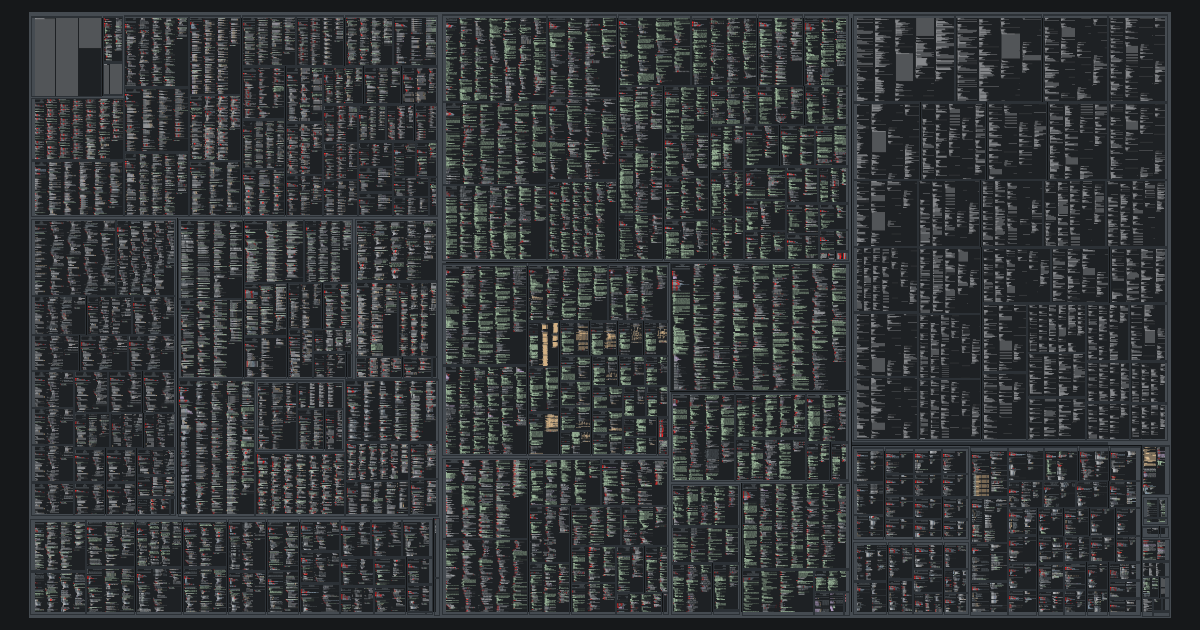
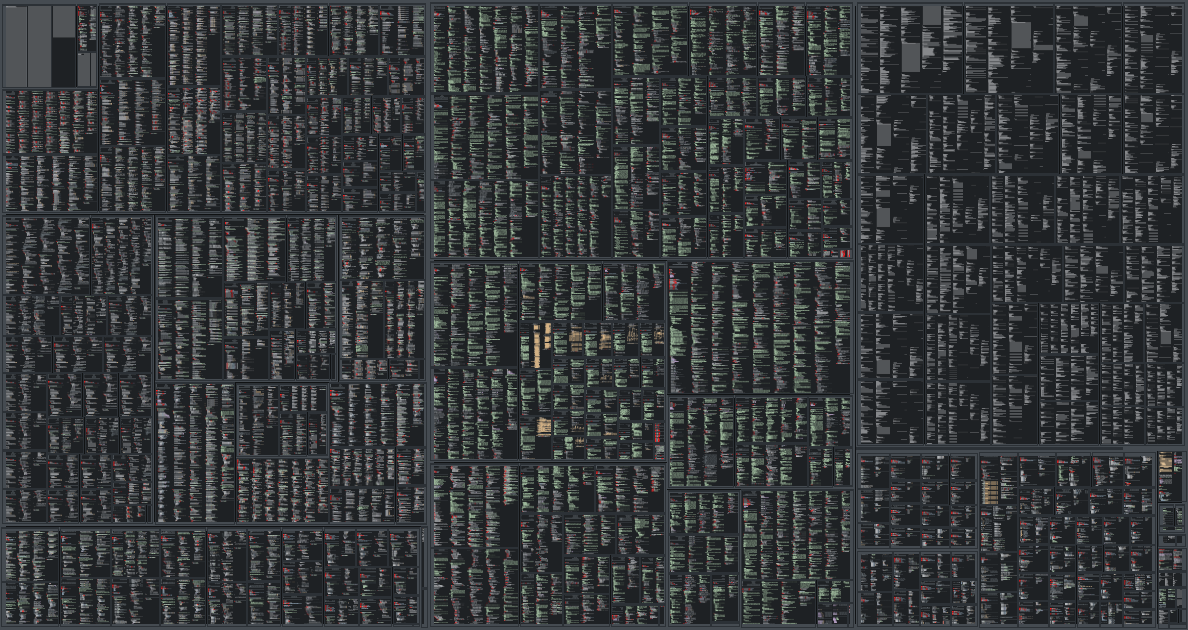
export: no border, the image takes the aspect of what it frames

diff --git a/web/src/lib/canvas/app.ts b/web/src/lib/canvas/app.ts
@@ -103,7 +103,12 @@ export interface ContentResult {
 
 /** What a PNG export asks for. */
 export interface ImageRequest {
-  /** Size of the image in pixels. */
+  /**
+   * Largest image wanted, in pixels. The one produced fits inside this box at
+   * the aspect of what is being framed, so nothing is padded and nothing is
+   * cut: a wide project comes out 3840 by 2021 rather than 3840 by 2160 with
+   * a strip of background at the top and bottom.
+   */
   width: number;
   height: number;
   /** What to frame: what is on screen, or the whole project. */
@@ -892,19 +897,22 @@ export class CanvasApp {
   async renderToBlob(req: ImageRequest): Promise<Blob> {
     if (!this.scene || !this.layout) throw new Error('nothing to render');
     const [maxW, maxH] = this.gl.getParameter(this.gl.MAX_VIEWPORT_DIMS) as Int32Array;
-    const width = Math.max(64, Math.min(req.width, maxW, MAX_IMAGE_EDGE));
-    const height = Math.max(64, Math.min(req.height, maxH, MAX_IMAGE_EDGE));
+    const boxW = Math.max(64, Math.min(req.width, maxW, MAX_IMAGE_EDGE));
+    const boxH = Math.max(64, Math.min(req.height, maxH, MAX_IMAGE_EDGE));
 
-    // The world rect to frame, then widened to the image's aspect, so asking
-    // for 16:9 never cuts anything off what was on screen.
-    const [rx0, ry0, rx1, ry1] = req.region === 'project'
-      ? this.layout.bounds
-      : this.cam.visibleRect();
-    const pad = req.region === 'project' ? 0.02 : 0;
+    // What to frame, exactly: the project's own bounds or what the window
+    // shows. No margin either way, and the image takes the rect's aspect
+    // instead of the rect being widened to the image's, since a fixed 16:9
+    // frame around a project that is not 16:9 is a border on two sides of it.
+    const [rx0, ry0, rx1, ry1] =
+      req.region === 'project' ? this.layout.bounds : this.cam.visibleRect();
     const cx = (rx0 + rx1) / 2;
     const cy = (ry0 + ry1) / 2;
-    const rw = (rx1 - rx0) * (1 + pad * 2);
-    const rh = (ry1 - ry0) * (1 + pad * 2);
+    const rw = rx1 - rx0;
+    const rh = ry1 - ry0;
+    const scale = Math.min(boxW / rw, boxH / rh);
+    const width = Math.max(64, Math.round(rw * scale));
+    const height = Math.max(64, Math.round(rh * scale));
 
     const keep = { x: this.cam.x, y: this.cam.y, zoom: this.cam.zoom };
     cancelAnimationFrame(this.raf);
@@ -919,7 +927,7 @@ export class CanvasApp {
       // the level this size of text actually needs.
       this.cam.dpr = 1;
       this.cam.stop();
-      this.cam.zoom = Math.min(width / rw, height / rh);
+      this.cam.zoom = scale;
       this.cam.x = cx;
       this.cam.y = cy;
 

diff --git a/web/src/lib/image.ts b/web/src/lib/image.ts
@@ -15,8 +15,14 @@ import type { CanvasApp } from '$lib/canvas/app';
 import { project } from '$lib/state/project.svelte';
 import { inTauri, savePng } from '$lib/sources/tauri';
 
-/** 4K in 16:9. Fixed rather than taken from the window, so an image does not
- *  need cropping before it can be posted or set as a background. */
+/**
+ * The box an image is rendered into, 4K in 16:9.
+ *
+ * A bound rather than a size: the image comes out at the aspect of what it
+ * frames, filling this box on its longer side, so a project wider than 16:9
+ * is 3840 across and shorter than 2160 rather than 3840 by 2160 with the
+ * background showing above and below it.
+ */
 export const IMAGE_WIDTH = 3840;
 export const IMAGE_HEIGHT = 2160;
 

diff --git a/web/src/App.svelte b/web/src/App.svelte
@@ -56,7 +56,7 @@
 	 */
 	async function save(region: 'view' | 'project') {
 		if (!app) return;
-		say(`rendering ${IMAGE_WIDTH} x ${IMAGE_HEIGHT}…`, 0);
+		say(`rendering up to ${IMAGE_WIDTH} x ${IMAGE_HEIGHT}…`, 0);
 		try {
 			const to = await saveImage(app, region);
 			say(to ? `wrote ${to}` : 'not saved');

diff --git a/README.md b/README.md
@@ -62,10 +62,11 @@ Try it on four public repositories, in the browser, no install:
   put through the treemap, since a placeholder has a fixed size and carries no
   information about how large its file is.
 - **Export to PNG**, from the right click menu: the view, or the whole project,
-  at 3840 by 2160. Not a screenshot of the window, since level of detail
-  follows from pixels per line: the same rect rendered into a 4K frame draws at
-  1.5 pixels per line where the window had 0.5, so the image has three times
-  the detail in it rather than three times the pixels. Takes about 130 ms.
+  into a 4K box at the aspect of what it frames, so there is no border around
+  it. Not a screenshot of the window, since level of detail follows from pixels
+  per line: the same rect rendered into a 4K frame draws at 1.5 pixels per line
+  where the window had 0.5, so the image has three times the detail in it
+  rather than three times the pixels. Takes about 130 ms.
 - Read-only. A panel's header opens the file in `$SANITY_EDITOR`, `$VISUAL`,
   `$EDITOR`, or the platform handler.
 
@@ -153,7 +154,8 @@ Mariana for whatever its block forgot, and that the text on screen is the text
 in the file, character for character, compared against the bytes on disk rather
 than against the canvas's own copy of them, and that the
 demo opens every repository it lists with its text in place, and that a PNG
-export is a 4K picture of the project that leaves the canvas as it found it.
+export is a 4K picture of the project, at the project's aspect with no
+padding on any side, and that it leaves the canvas as it found it.
 The layout case list includes a project two thirds reduced to placeholders. Last, a
 pass over this repository asserting that every language gets a colour on at
 least as much of its text as it should.
